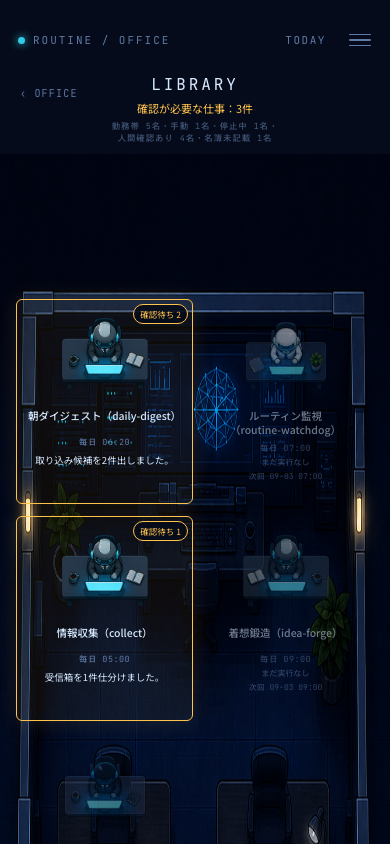
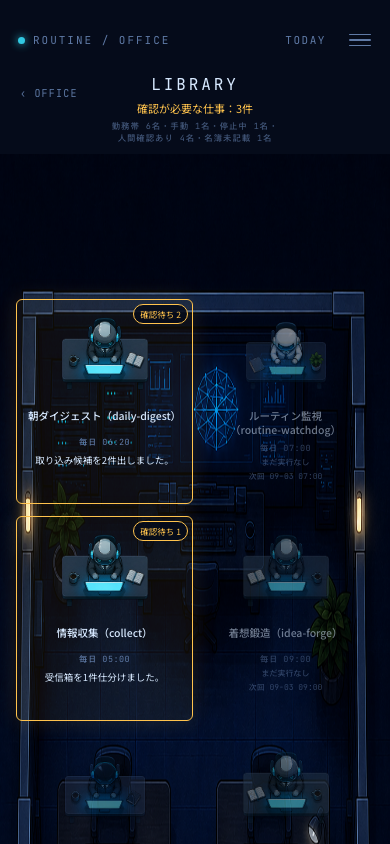
fix(web): 名簿未記載の集計を profile 不在だけに絞り、E2E の null を明示する
fresh-context 評価者の不合格指摘2点（cerebellum-65b.1）。

1. ヘッダ内訳の「名簿未記載 m名」が `rosterOf().missing`（21 §3.2-3 の表示用＝
   `profile` 不在**または** `job` 空）を使っており、26 §3.2-2 の定義（`profile` が
   無い社員数）と母集団が違っていた。`hasNoProfile()` を新設して集計をそちらへ寄せる。
   21 の `missing` の意味は変えない——社員カードの「名簿 未記載」表示は既存挙動のまま
2. E2E フィクスチャが `review` / `dept` のキー欠落で null 入力を代替していたため、
   `review: null` / `dept: null` を明示。あわせて
   - `profile.job` だけが空の社員（a-blank）を追加し、カードでは「名簿 未記載」でも
     ヘッダの集計には入らないことを検証（`missing` へ戻すと落ちる）
   - `dept` キー欠落の経路（a-watchdog）も別テストで残す（§2「届くまで null 扱い」）

5k5.2 の「名簿未記載 2名」は元から `profile:null` の2名なので値は変わらない。
MY DESK 件数不変・席に両項目を出さない・文言3種の検証は変更していない。

Changed region(s): [[0.6154, 0.8934, 0.8308, 0.9858]]

diff --git a/web/src/features/office/lib/office.ts b/web/src/features/office/lib/office.ts
@@ -255,6 +255,18 @@ export function hasReview(employee: OfficeEmployee): boolean {
   return rosterOf(employee).review !== null;
 }
 
+/**
+ * 名簿（`profile`）そのものが無い社員（docs/specs/26-web-office-company.md §3.2-2 の
+ * 「名簿未記載 m名」）。数えるのは正本の「**カードが書けない一体**」＝ `profile` 不在だけ。
+ *
+ * `rosterOf().missing`（21 §3.2-3）とは**別の述語**。あちらは社員カードの表示用で
+ * 「`profile` が無い／`job` が空」の両方を「名簿 未記載」に畳むが、`job` だけが空の社員は
+ * カードが書けている（frontmatter はある）ので §3.2-2 の集計には入れない。
+ */
+export function hasNoProfile(employee: OfficeEmployee): boolean {
+  return (employee.profile ?? null) === null;
+}
+
 /** ライン（`profile.line`）の日本語ラベル（21 §3.7-2）。識別子→表示語彙の対応で、名簿の値ではない */
 export const OFFICE_LINE_LABELS: Readonly<Record<string, string>> = {
   knowledge: '知識',

diff --git a/web/src/features/office/components/OfficeRoomView.tsx b/web/src/features/office/components/OfficeRoomView.tsx
@@ -2,6 +2,7 @@
 import Link from 'next/link';
 import {
   actionCountOf,
+  hasNoProfile,
   hasReview,
   lastRunOf,
   lineBlocksOf,
@@ -131,7 +132,9 @@ export function OfficeRoomView({
   // 名簿の設定漏れは在籍状態と独立に潰す対象なので、停止中を外すと漏れが隠れる（26 §3.2-2）。
   const members = [...blocks.scheduled, ...blocks.manual, ...blocks.stopped];
   const reviewers = members.filter(hasReview).length;
-  const unlisted = members.filter((employee) => rosterOf(employee).missing).length;
+  // 数えるのは `profile` 不在だけ（§3.2-2）。`job` が空の社員はカードでは「名簿 未記載」
+  // （21 §3.2-3）だが frontmatter そのものはあるので、ここには混ぜない
+  const unlisted = members.filter(hasNoProfile).length;
   const breakdown = [
     `勤務帯 ${blocks.scheduled.length}名`,
     blocks.manual.length > 0 ? `手動 ${blocks.manual.length}名` : null,
